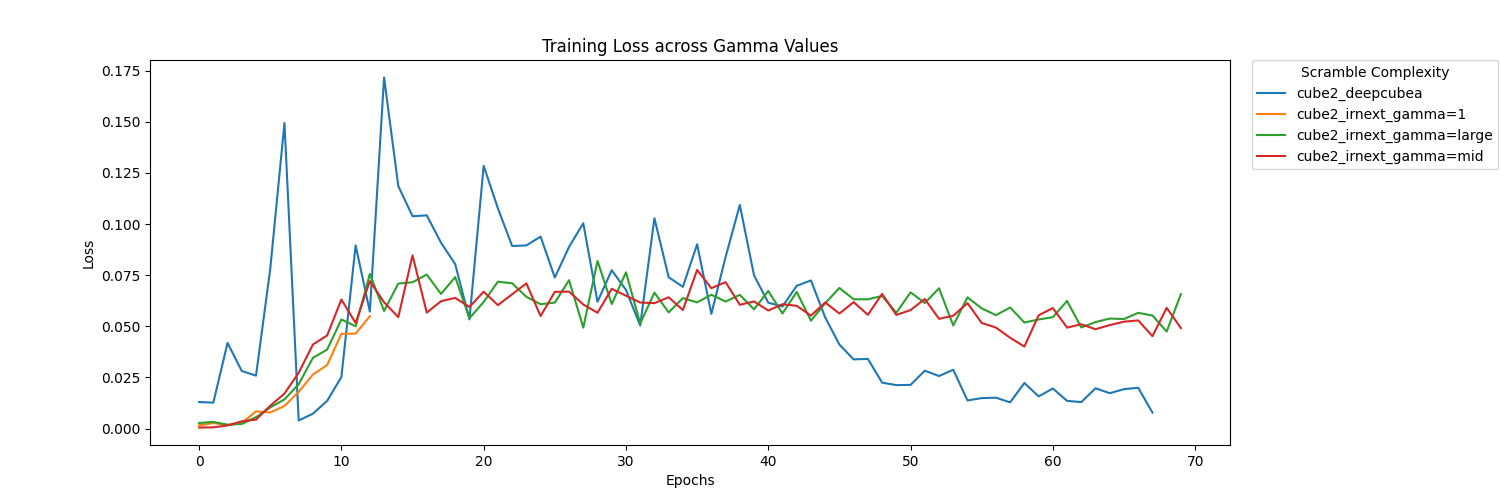
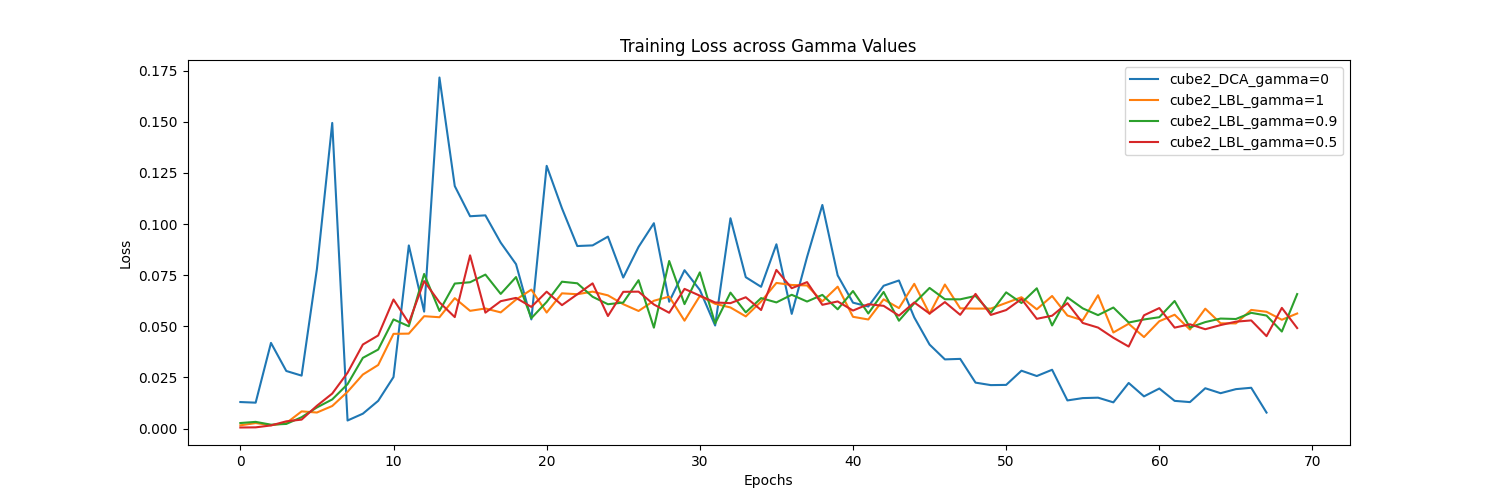
compare loss fix

diff --git a/saved_models/compareLoss.py b/saved_models/compareLoss.py
@@ -33,7 +33,14 @@ def main():
     
     plt.figure(figsize=(15,5))
 
-    for model in models:
+    labels = [
+        "cube2_DCA_gamma=0",
+        "cube2_LBL_gamma=1",
+        "cube2_LBL_gamma=0.9",
+        "cube2_LBL_gamma=0.5",
+    ]
+
+    for i, model in enumerate(models):
         steps, losses = readLoss(model)
 
                 
@@ -44,21 +51,10 @@ def main():
         losses = np.array(losses)
         maxStep = steps.max()
 
-        plt.plot(iters, losses, label=model)
+        plt.plot(iters, losses, label=labels[i])
 
-        # Each step size
-        for i in range(1, maxStep+1):
-            stepIdxs = np.where(steps == i)
 
-            # If only 1 index point
-            #plt.plot(iters[stepIdxs], losses[stepIdxs], 'o', label=f"{i} moves")
-    
-
-    # Move plot a bit to the left to make room for legend
-    plt.subplots_adjust(left=0.1)
-    plt.subplots_adjust(right=0.82)
-    # Place legend outside of plot
-    plt.legend(bbox_to_anchor=(1.02, 1), loc='upper left', title="Scramble Complexity", borderaxespad=0.)
+    plt.legend(loc="upper right")
 
     plt.xlabel("Epochs")
     plt.ylabel("Loss")

diff --git a/saved_models/plotPercentSolved.py b/saved_models/plotPercentSolved.py
@@ -51,7 +51,7 @@ def main():
 
     plt.figure(figsize=(15,5))
 
-    for i in range(5, maxBackstep, 5):
+    for i in range(1, maxBackstep, 1):
         plt.plot(epochIterator, backstep_2d_np[i], label=f"{i} moves")
 
     # Move plot a bit to the left to make room for legend
